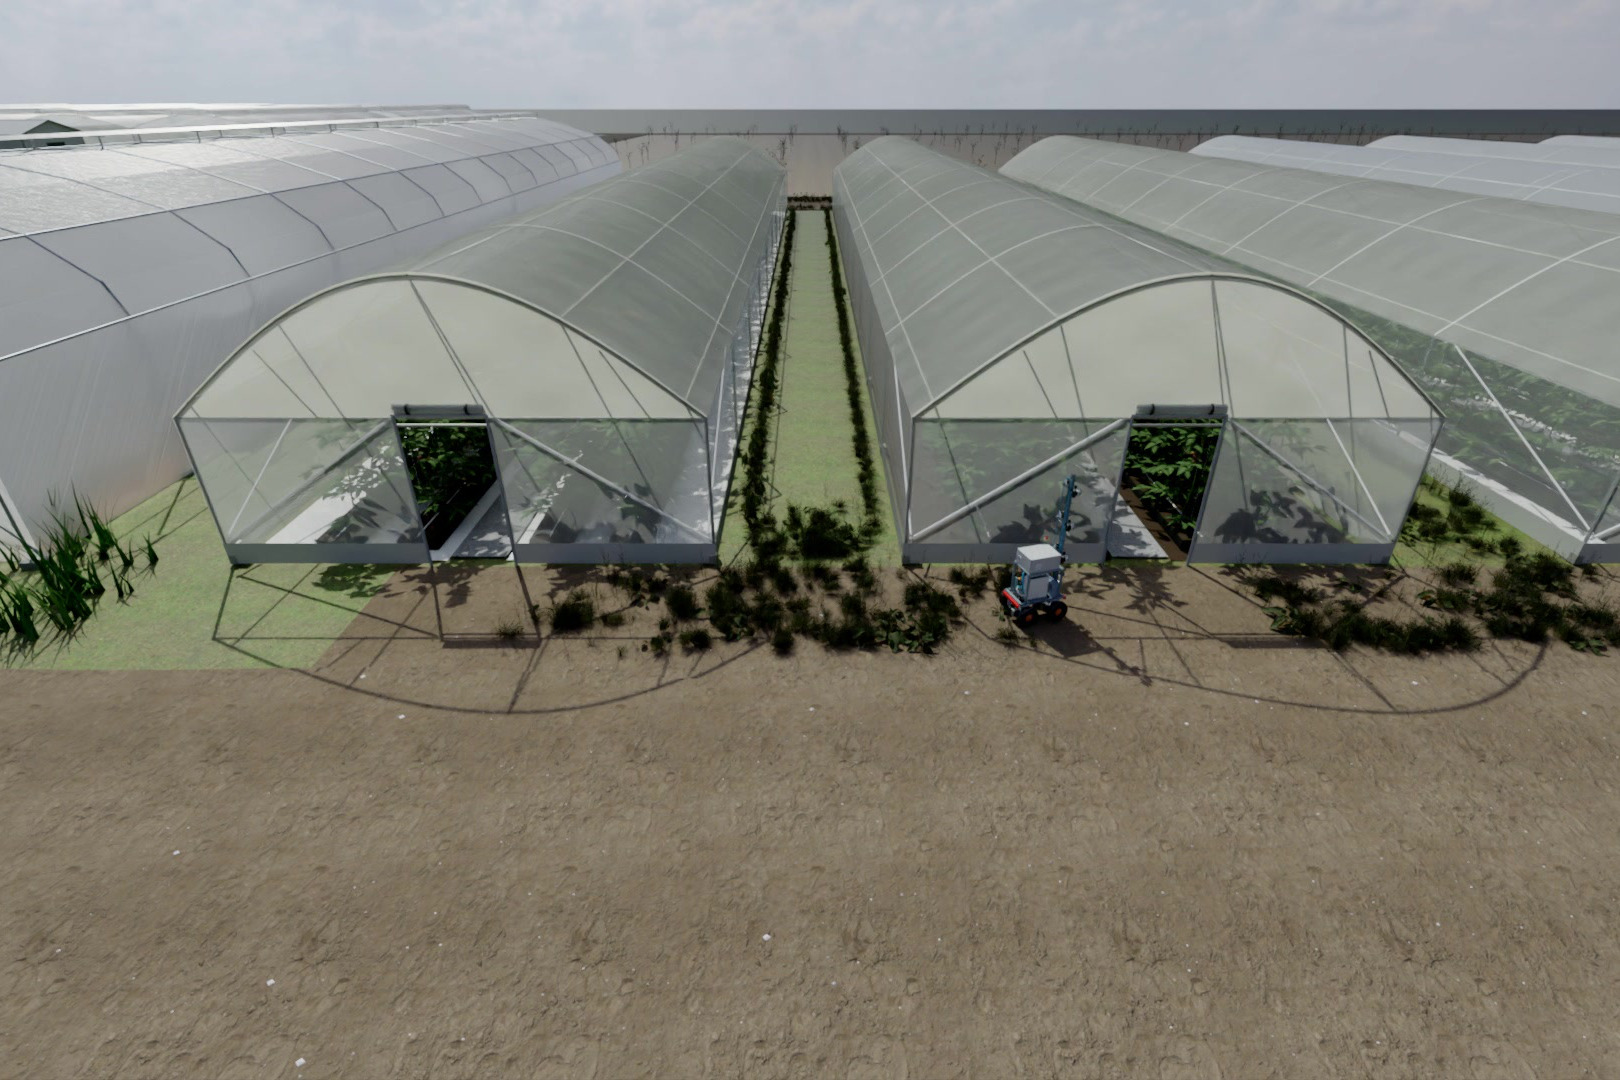
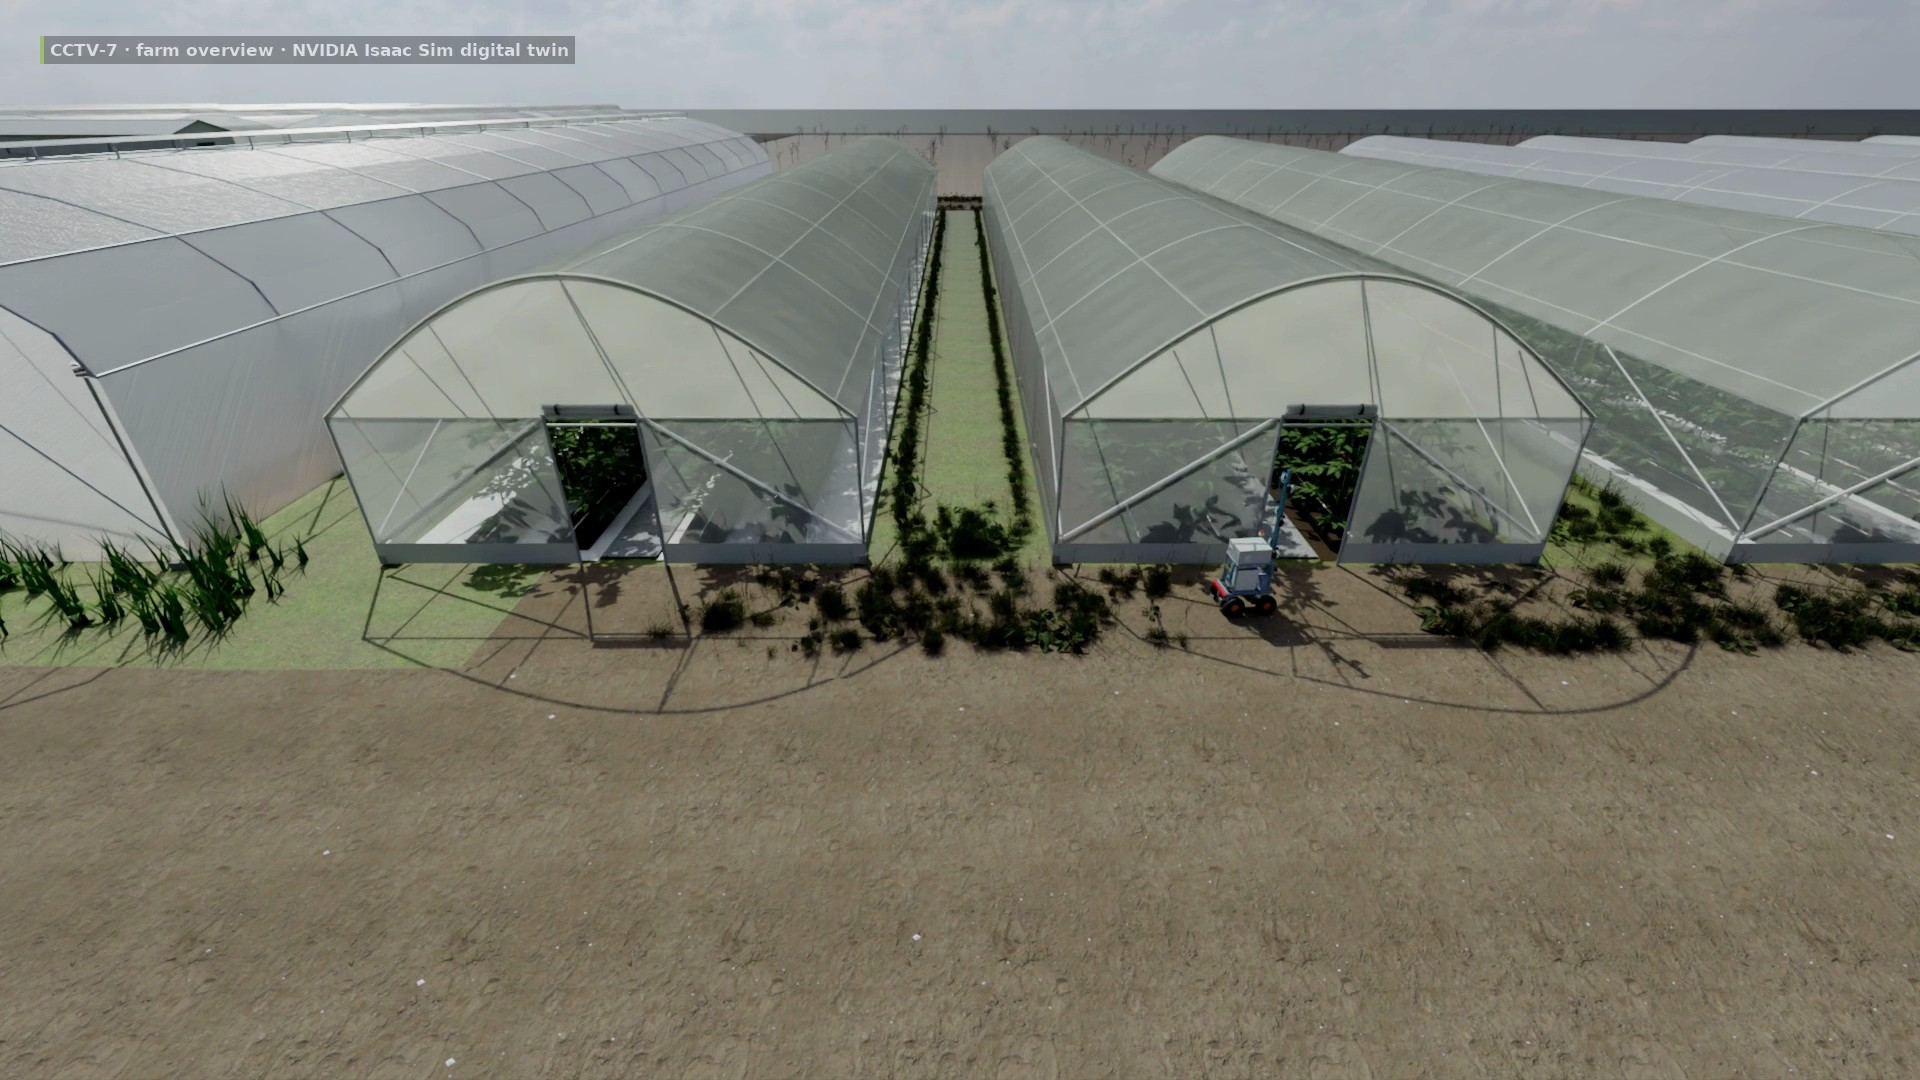
Gallery: seven pictures from the demo film restored to the full 1920x1080 frame (the 3:2 crop cut off the HUD panels)

diff --git a/docs/media/gallery/README.md b/docs/media/gallery/README.md
@@ -1,6 +1,6 @@
 # RoboFarm gallery
 
-All 3:2, ≤ 2 MB. Renders are from the NVIDIA Isaac Sim digital twin of our farm (Astra scene) unless marked *real photo*.
+Pictures taken from the demo film are the full 1920×1080 frame (01, 02, 04, 11-14); the others are 3:2; all ≤ 2 MB. Renders are from the NVIDIA Isaac Sim digital twin of our farm (Astra scene) unless marked *real photo*.
 
 | # | Image | Caption |
 |---|---|---|
